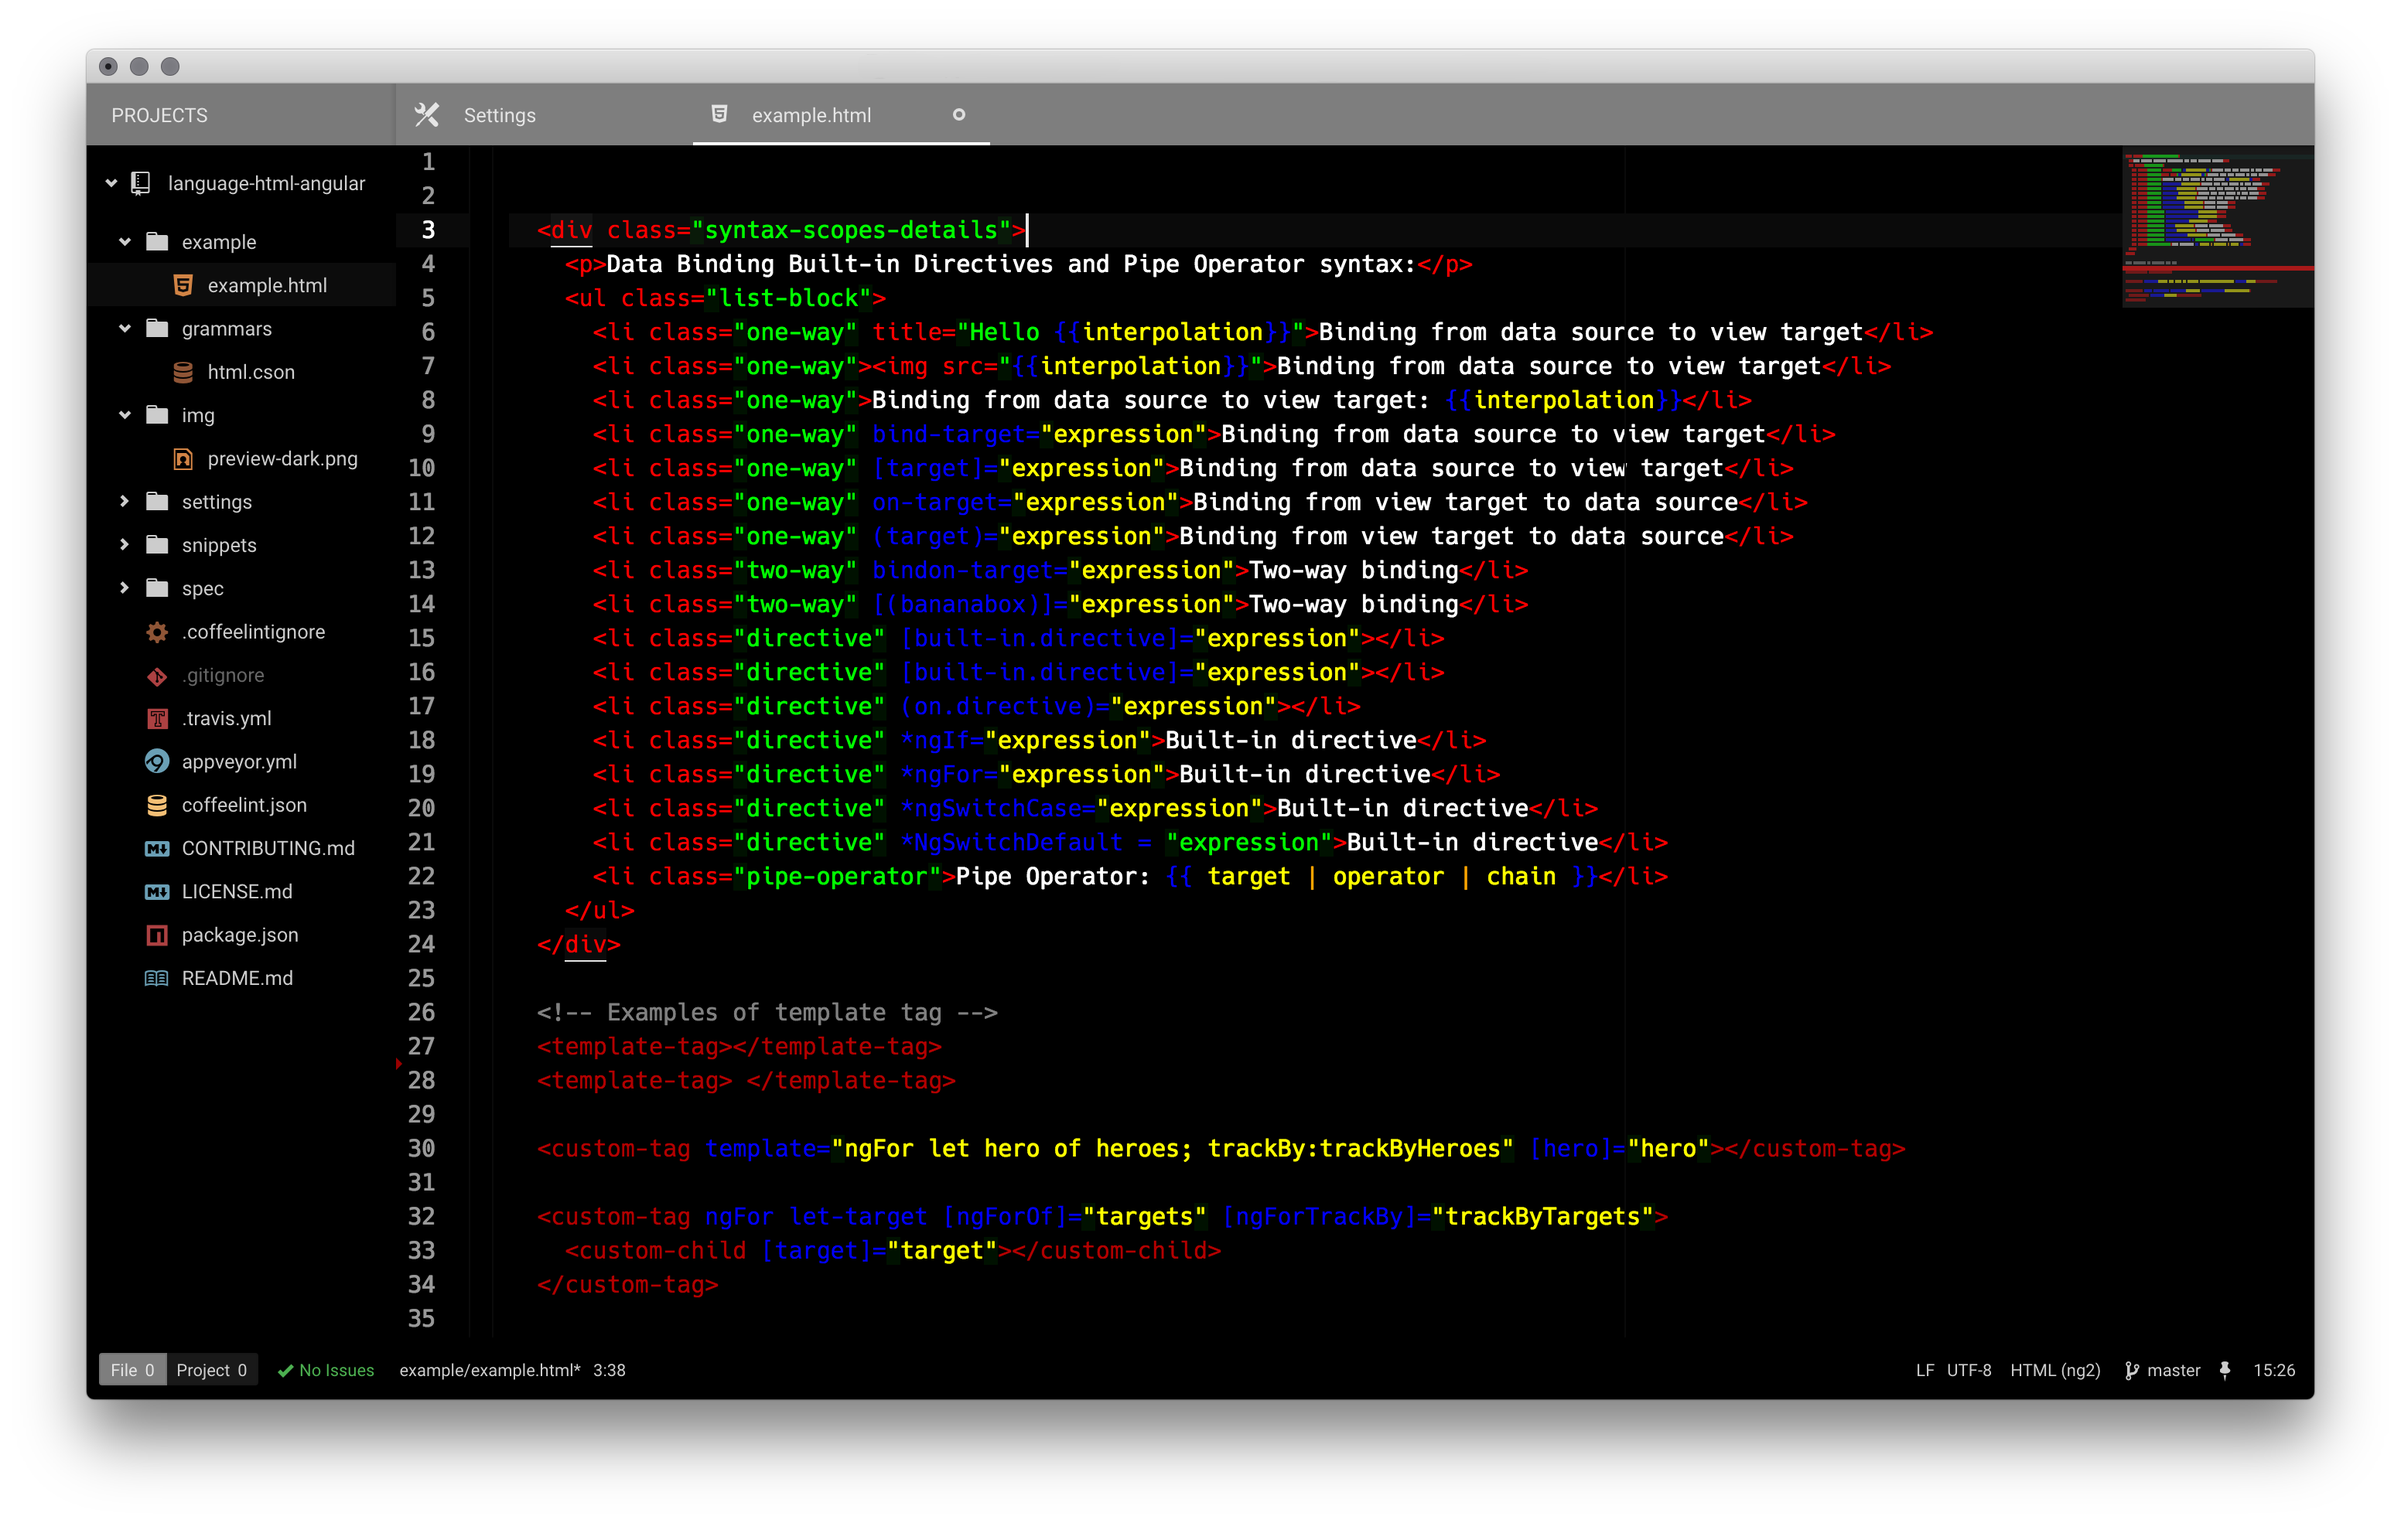
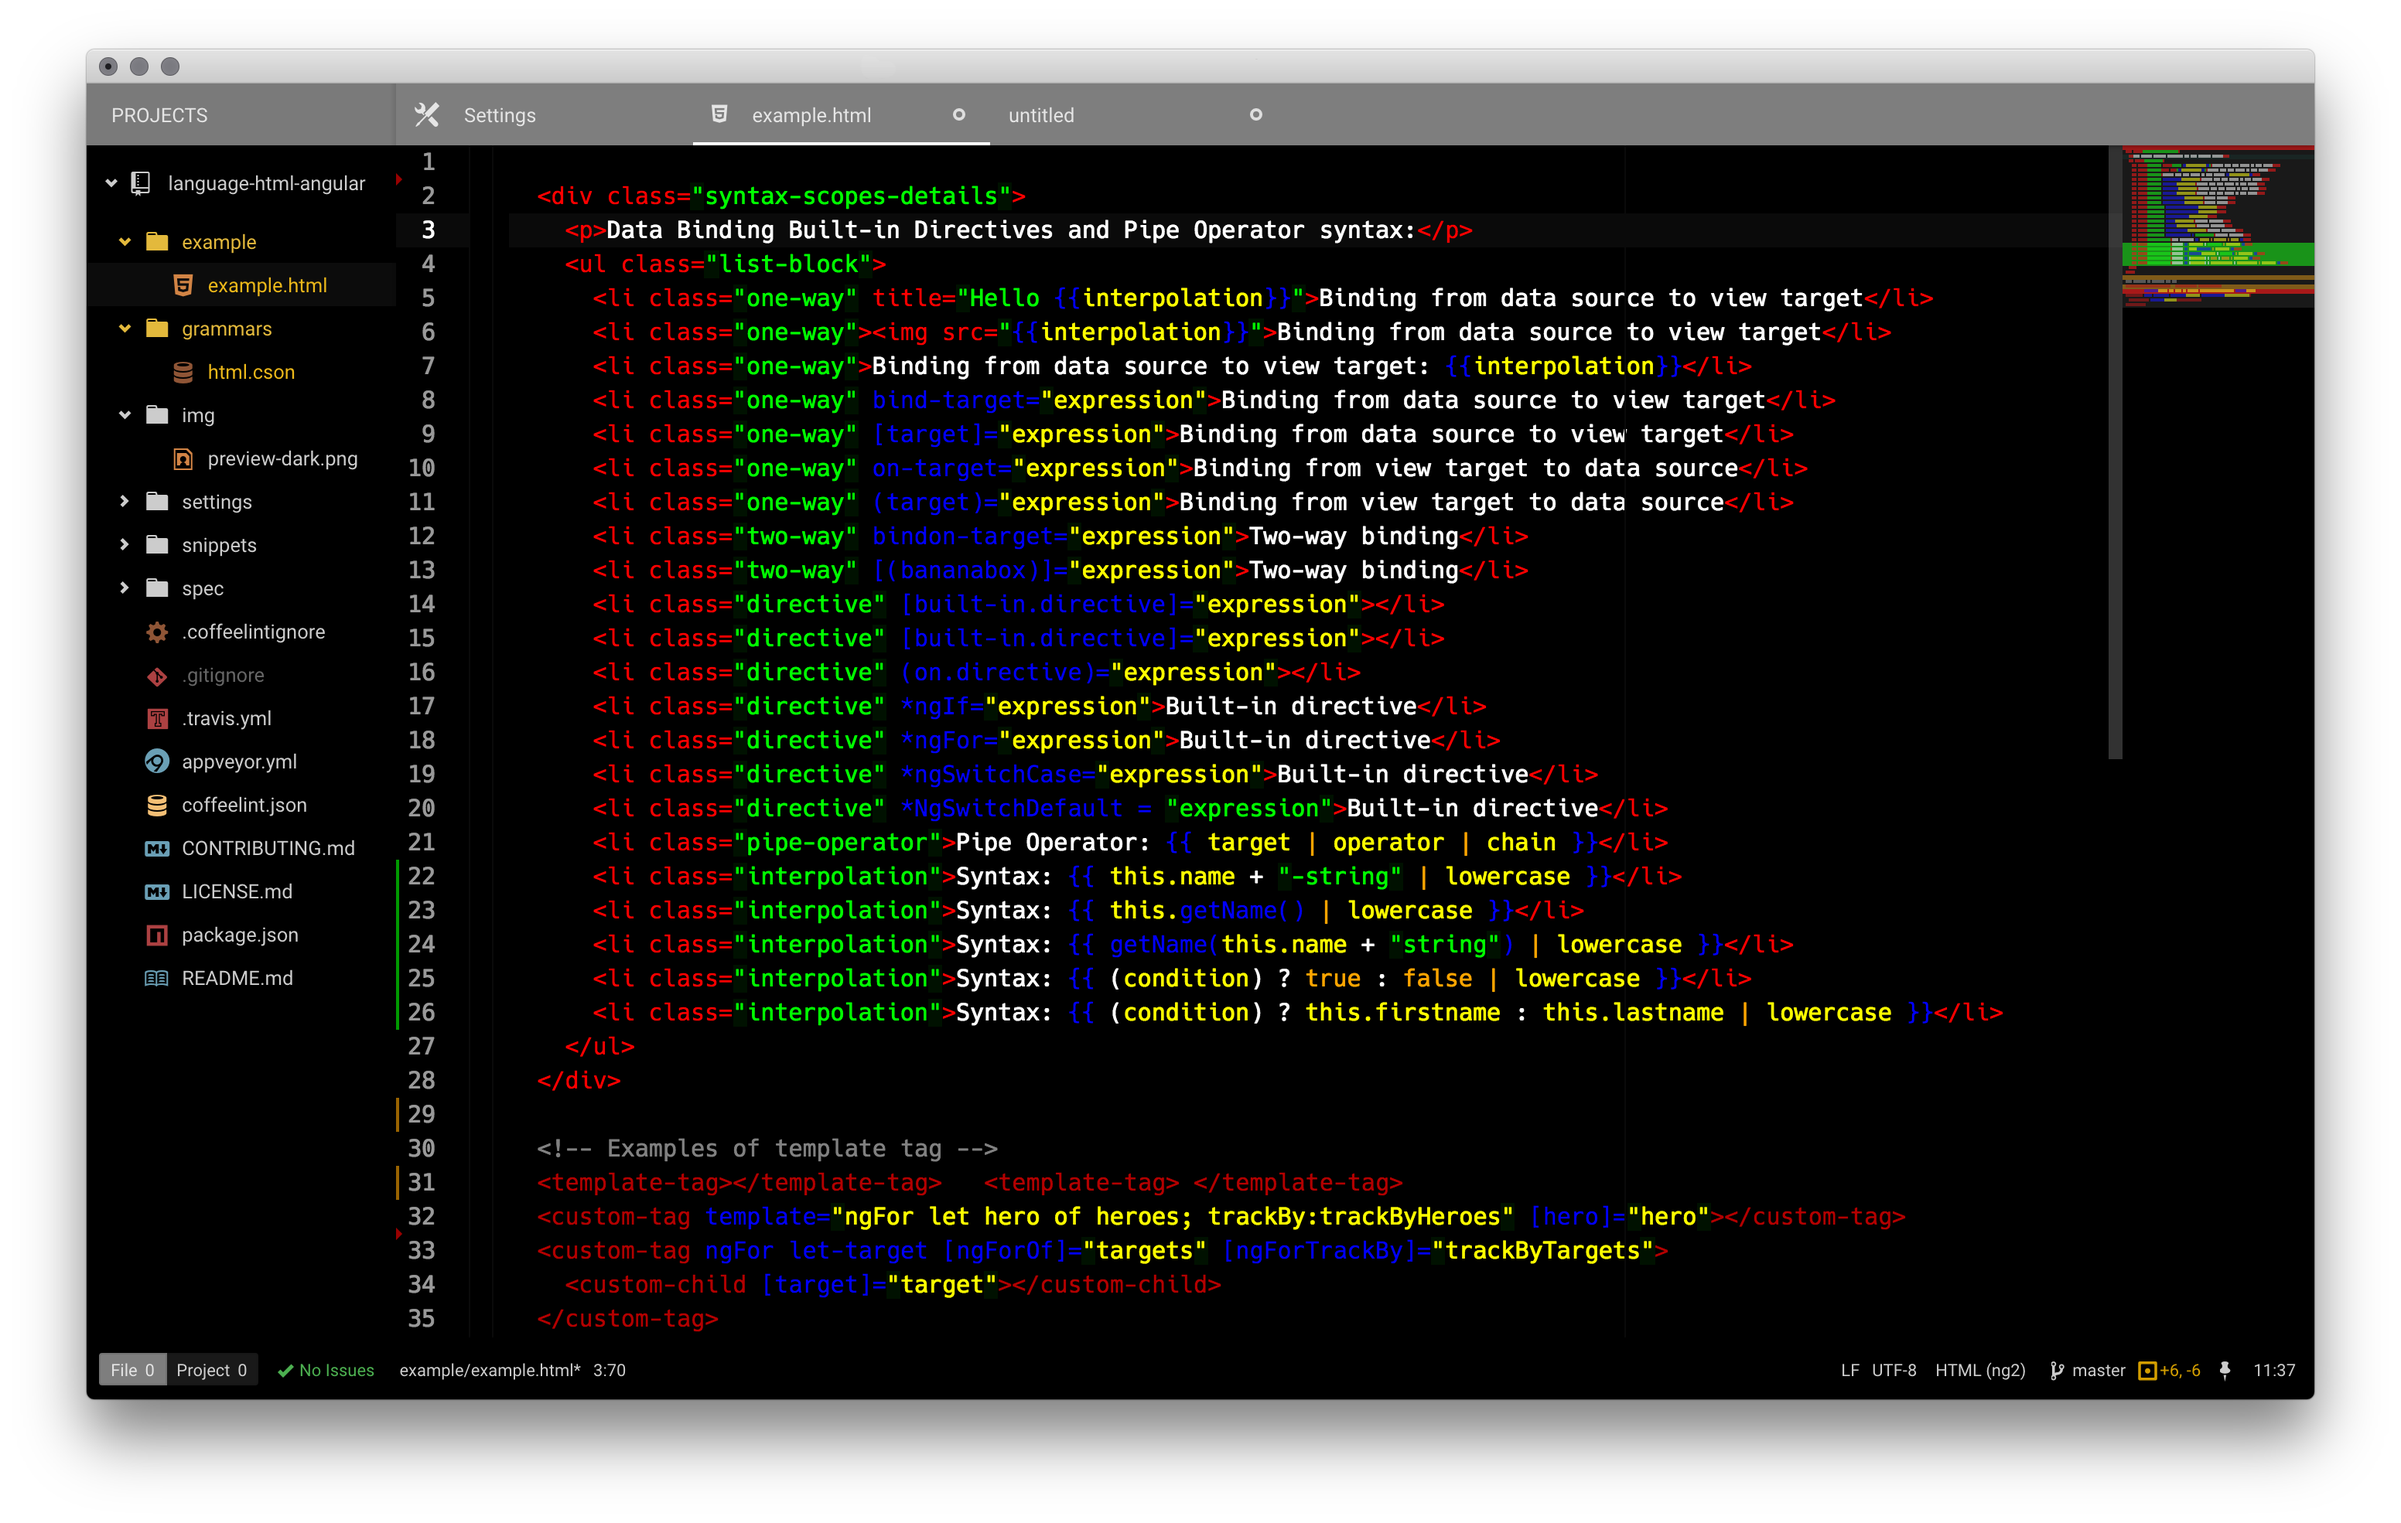
interpolation syntax highlighting added

diff --git a/lib/_theme.less b/lib/_theme.less
@@ -3,16 +3,16 @@
 
 // These colors are specific to the theme. Do not use in a package!
 
-@_background: @background_dark;
-@_current-line: lighten(@_background, 4%);
-@_selection: lighten(@_background, 10%);
-@_foreground: @foreground_dark;
+@_background: @background_light;
+@_current-line: darken(@_background, 4%);
+@_selection: darken(@_background, 10%);
+@_foreground: @foreground_light;
 @_comment: @comment_neutral;
 
-@____1: @1____;
-@____2: @2____;
-@____3: @3____;
-@____4: @4____;
-@____5: @5____;
-@____6: @6____;
-@____7: @7____;
+@____1: darken(@1____,15%);
+@____2: darken(@2____,15%);
+@____3: darken(@3____,15%);
+@____4: darken(@4____,15%);
+@____5: darken(@5____,15%);
+@____6: darken(@6____,15%);
+@____7: darken(@7____,15%);

diff --git a/styles/languages/angular.less b/styles/languages/angular.less
@@ -76,4 +76,37 @@
     color: darken(@111111,15%) !important;
   }
 
+  // Interpolation Syntax
+  .punctuation.definition.js.string.begin.ng.html {
+    color: @444444 !important;
+  }
+
+  .punctuation.definition.js.string.end.ng.html {
+    color: @444444 !important;
+  }
+
+  .string.operator.ng {
+    color: @syntax-text-color !important;
+  }
+
+  .string.bracket.ng {
+    color: @syntax-text-color !important;
+  }
+
+  .string.js.bool.ng {
+    color: @222222 !important;
+  }
+
+  .punctuation.definition.function.begin.ng {
+    color: @666666 !important;
+  }
+
+  .punctuation.definition.function.end.ng {
+    color: @666666 !important;
+  }
+
+  .meta.definition.function.ng {
+    color: @333333 !important;
+  }
+
 }
